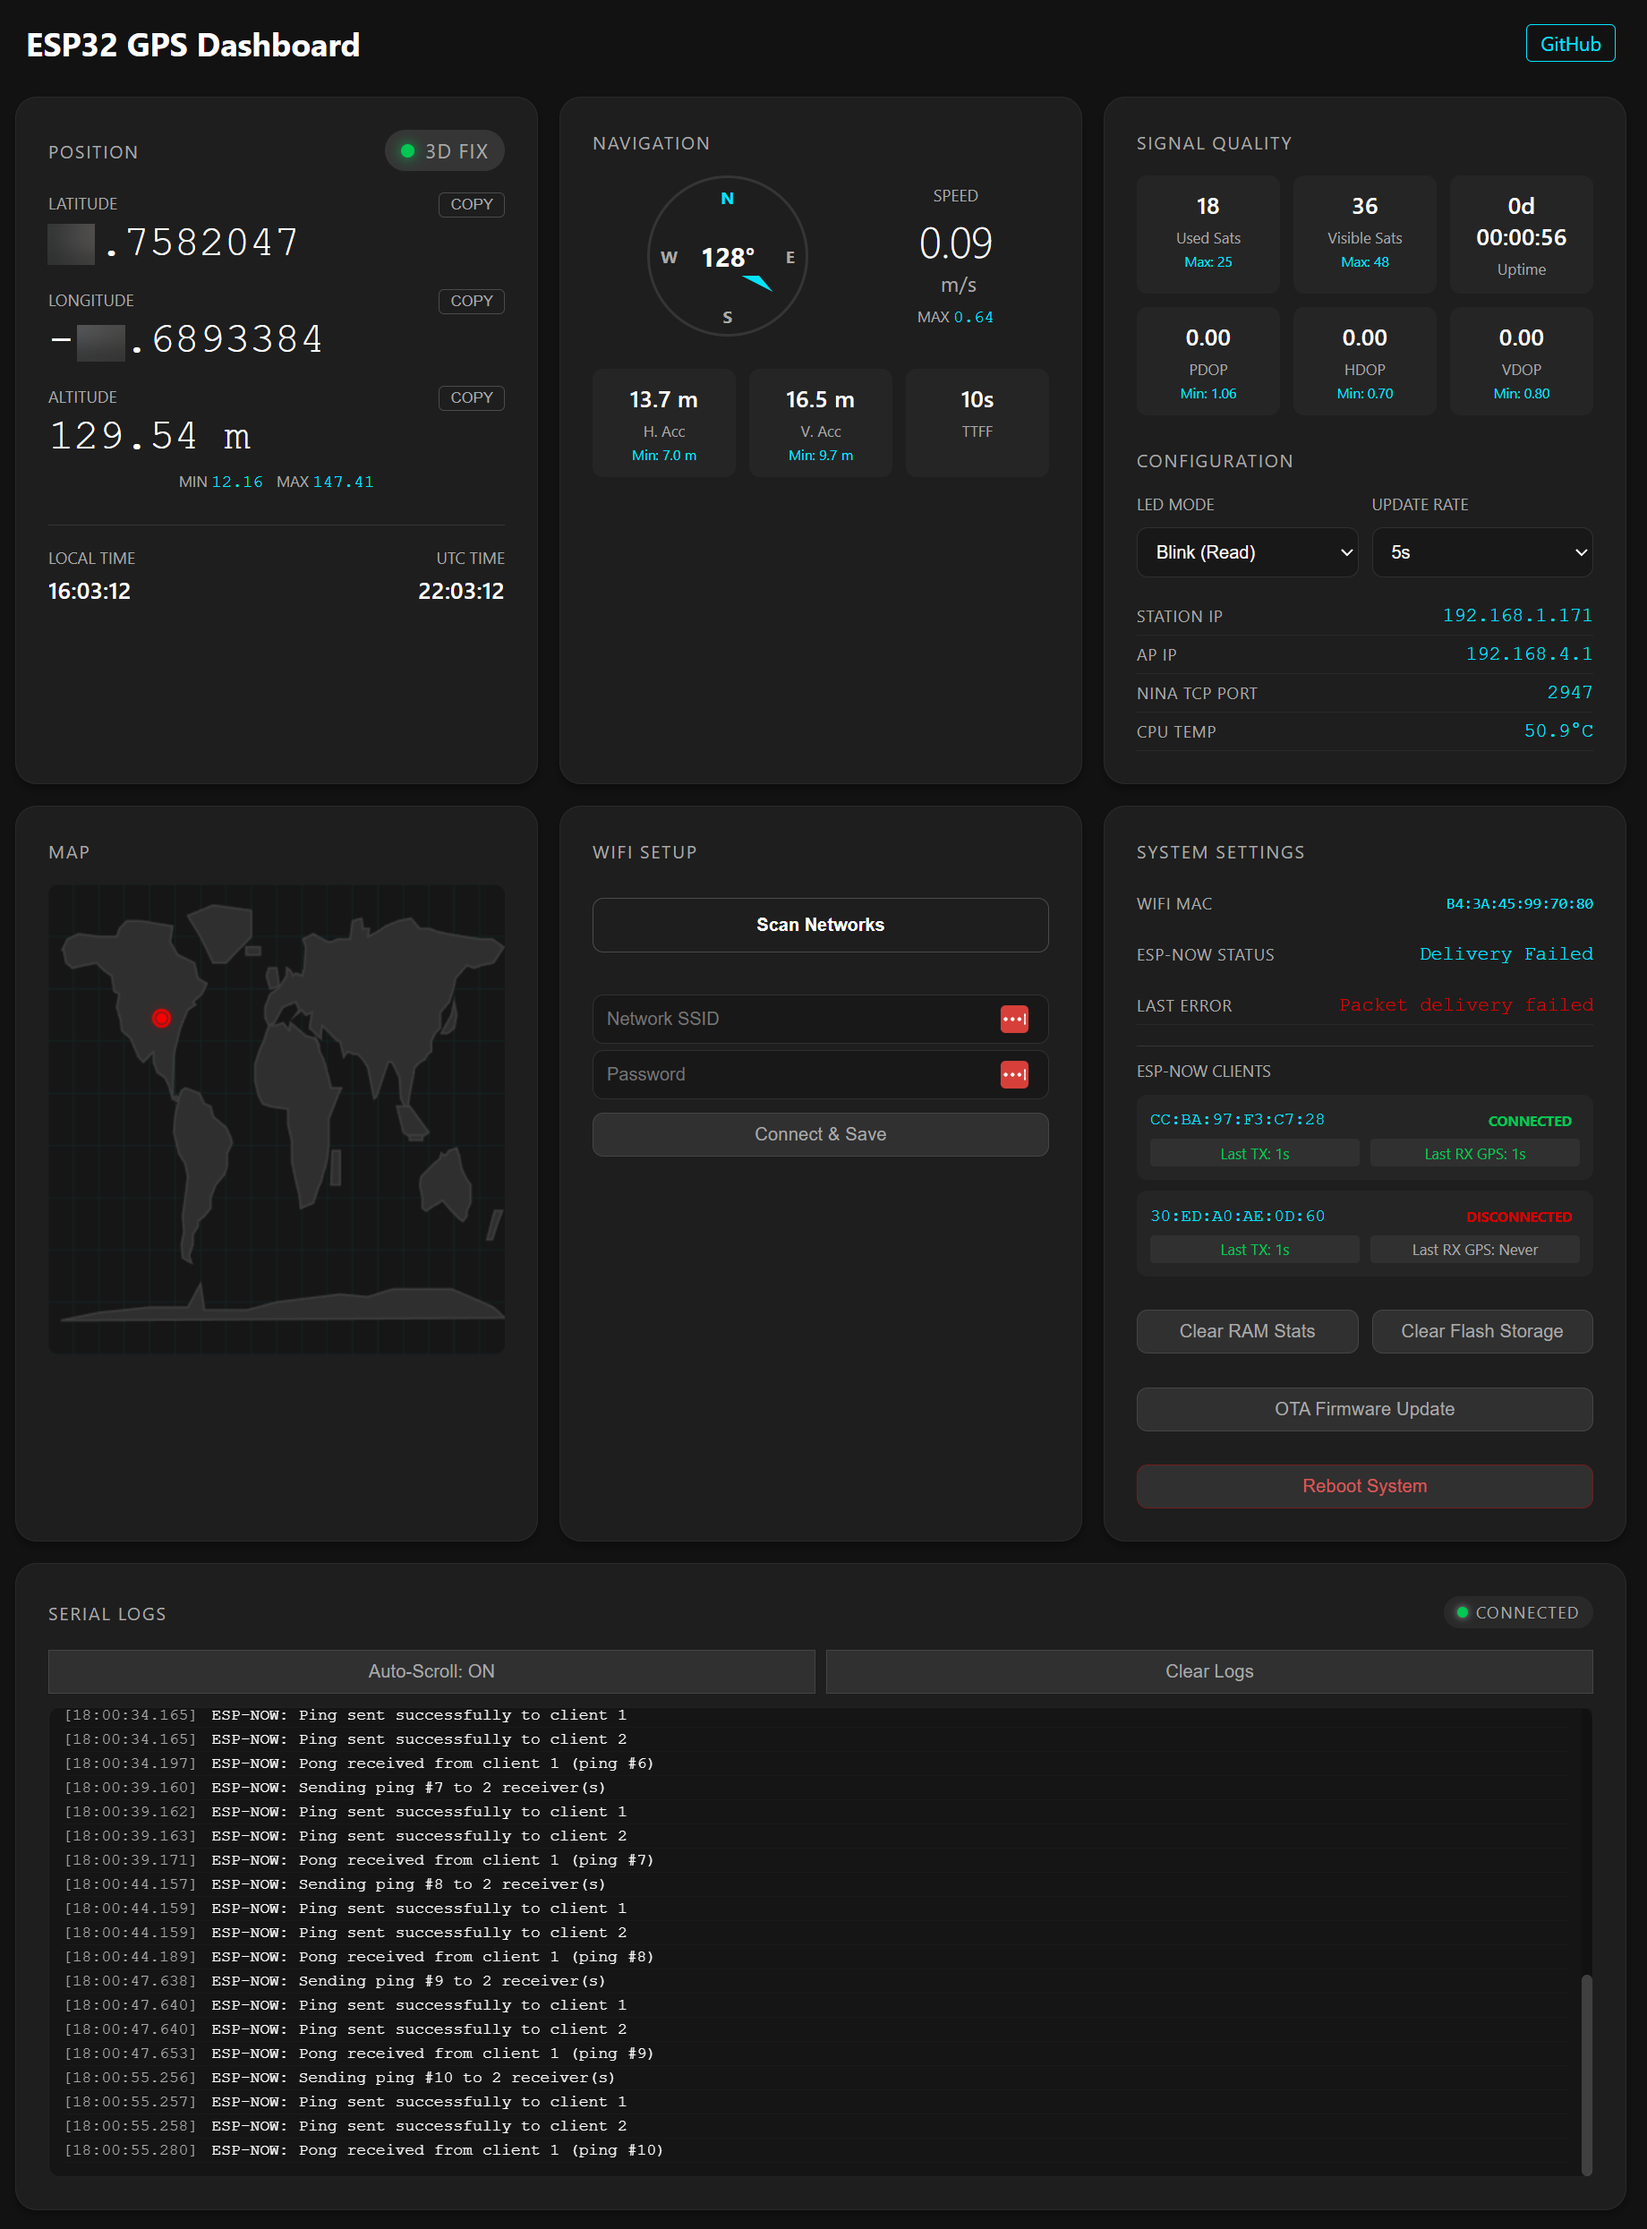
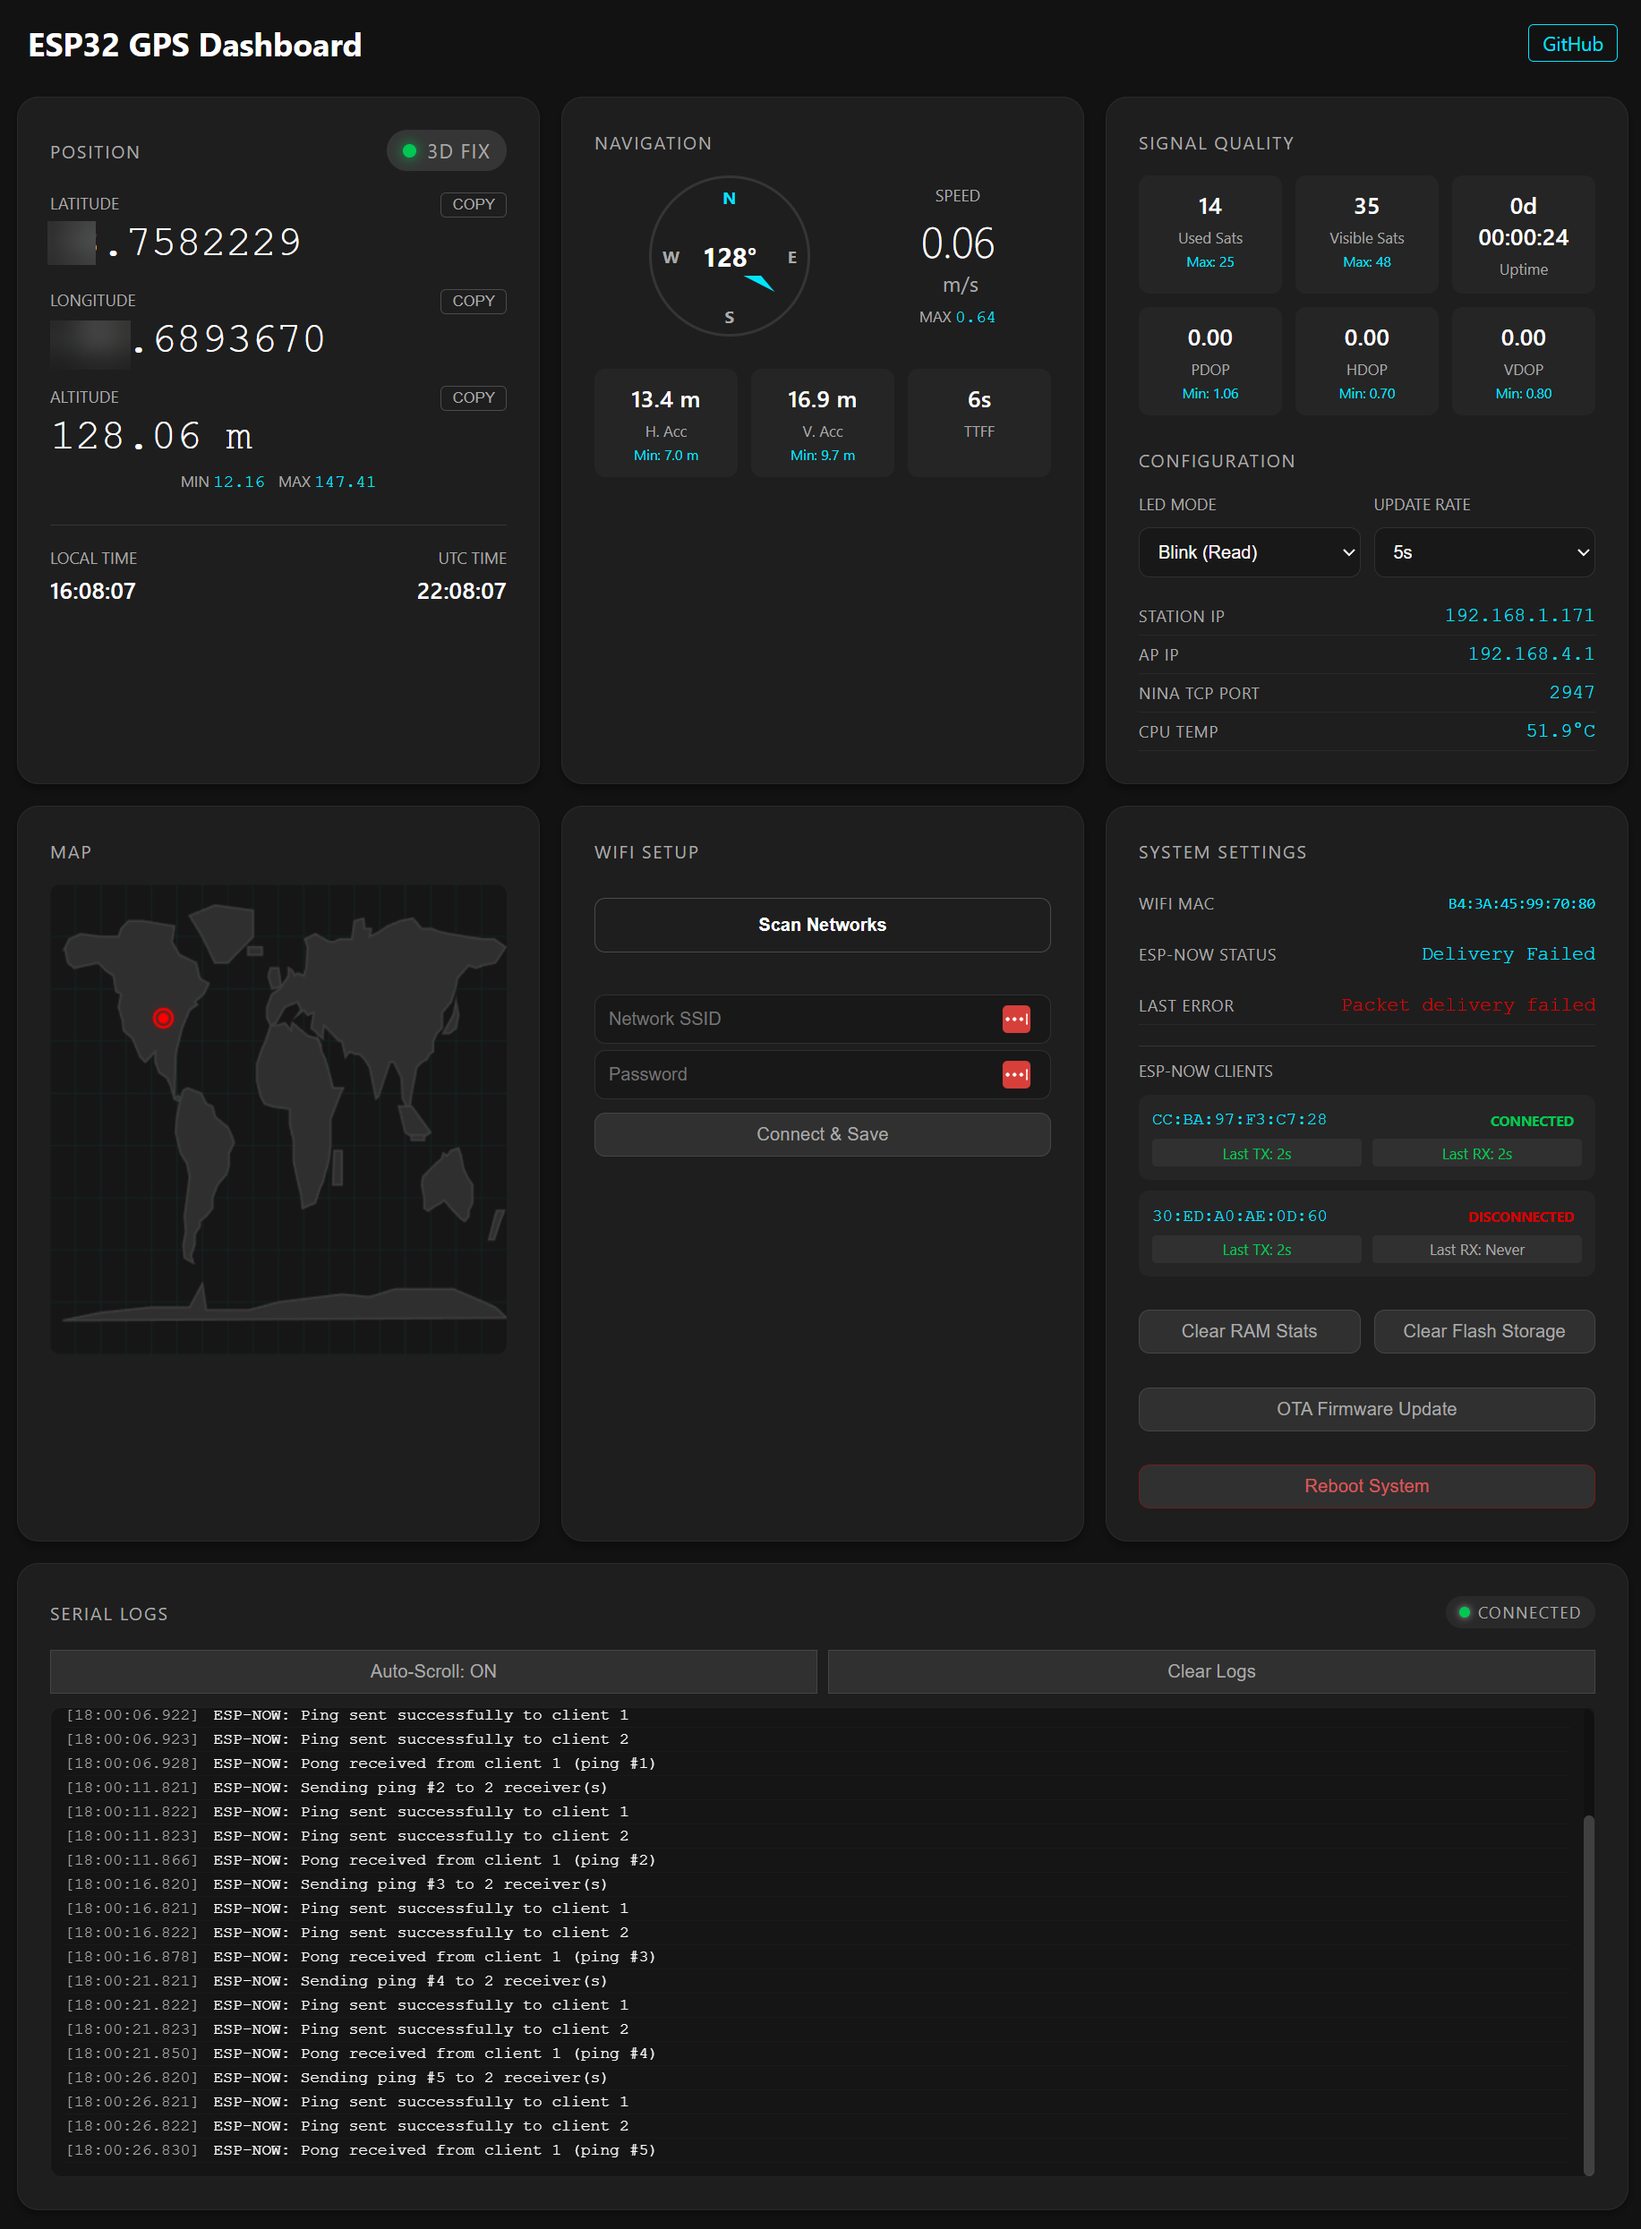
fix: update HTML display for last RX GPS information

diff --git a/GPS Sender - SparkFun ESP32-C6 Qwiic/WebServer.cpp b/GPS Sender - SparkFun ESP32-C6 Qwiic/WebServer.cpp
@@ -640,7 +640,7 @@ const char index_html[] PROGMEM = R"rawliteral(
             html += '</div>';
             html += `<div style="display: flex; gap: 8px; font-size: 0.7rem;">`;
             html += `<span style="flex: 1; padding: 3px 8px; background: rgba(255,255,255,0.05); color: ${txColor}; border-radius: 3px; text-align: center;">Last TX: ${txDisplay}</span>`;
-            html += `<span style="flex: 1; padding: 3px 8px; background: rgba(255,255,255,0.05); color: ${pongColor}; border-radius: 3px; text-align: center;">Last RX GPS: ${pongDisplay}</span>`;
+            html += `<span style="flex: 1; padding: 3px 8px; background: rgba(255,255,255,0.05); color: ${pongColor}; border-radius: 3px; text-align: center;">Last RX: ${pongDisplay}</span>`;
             html += '</div>';
             html += '</div>';
         });
